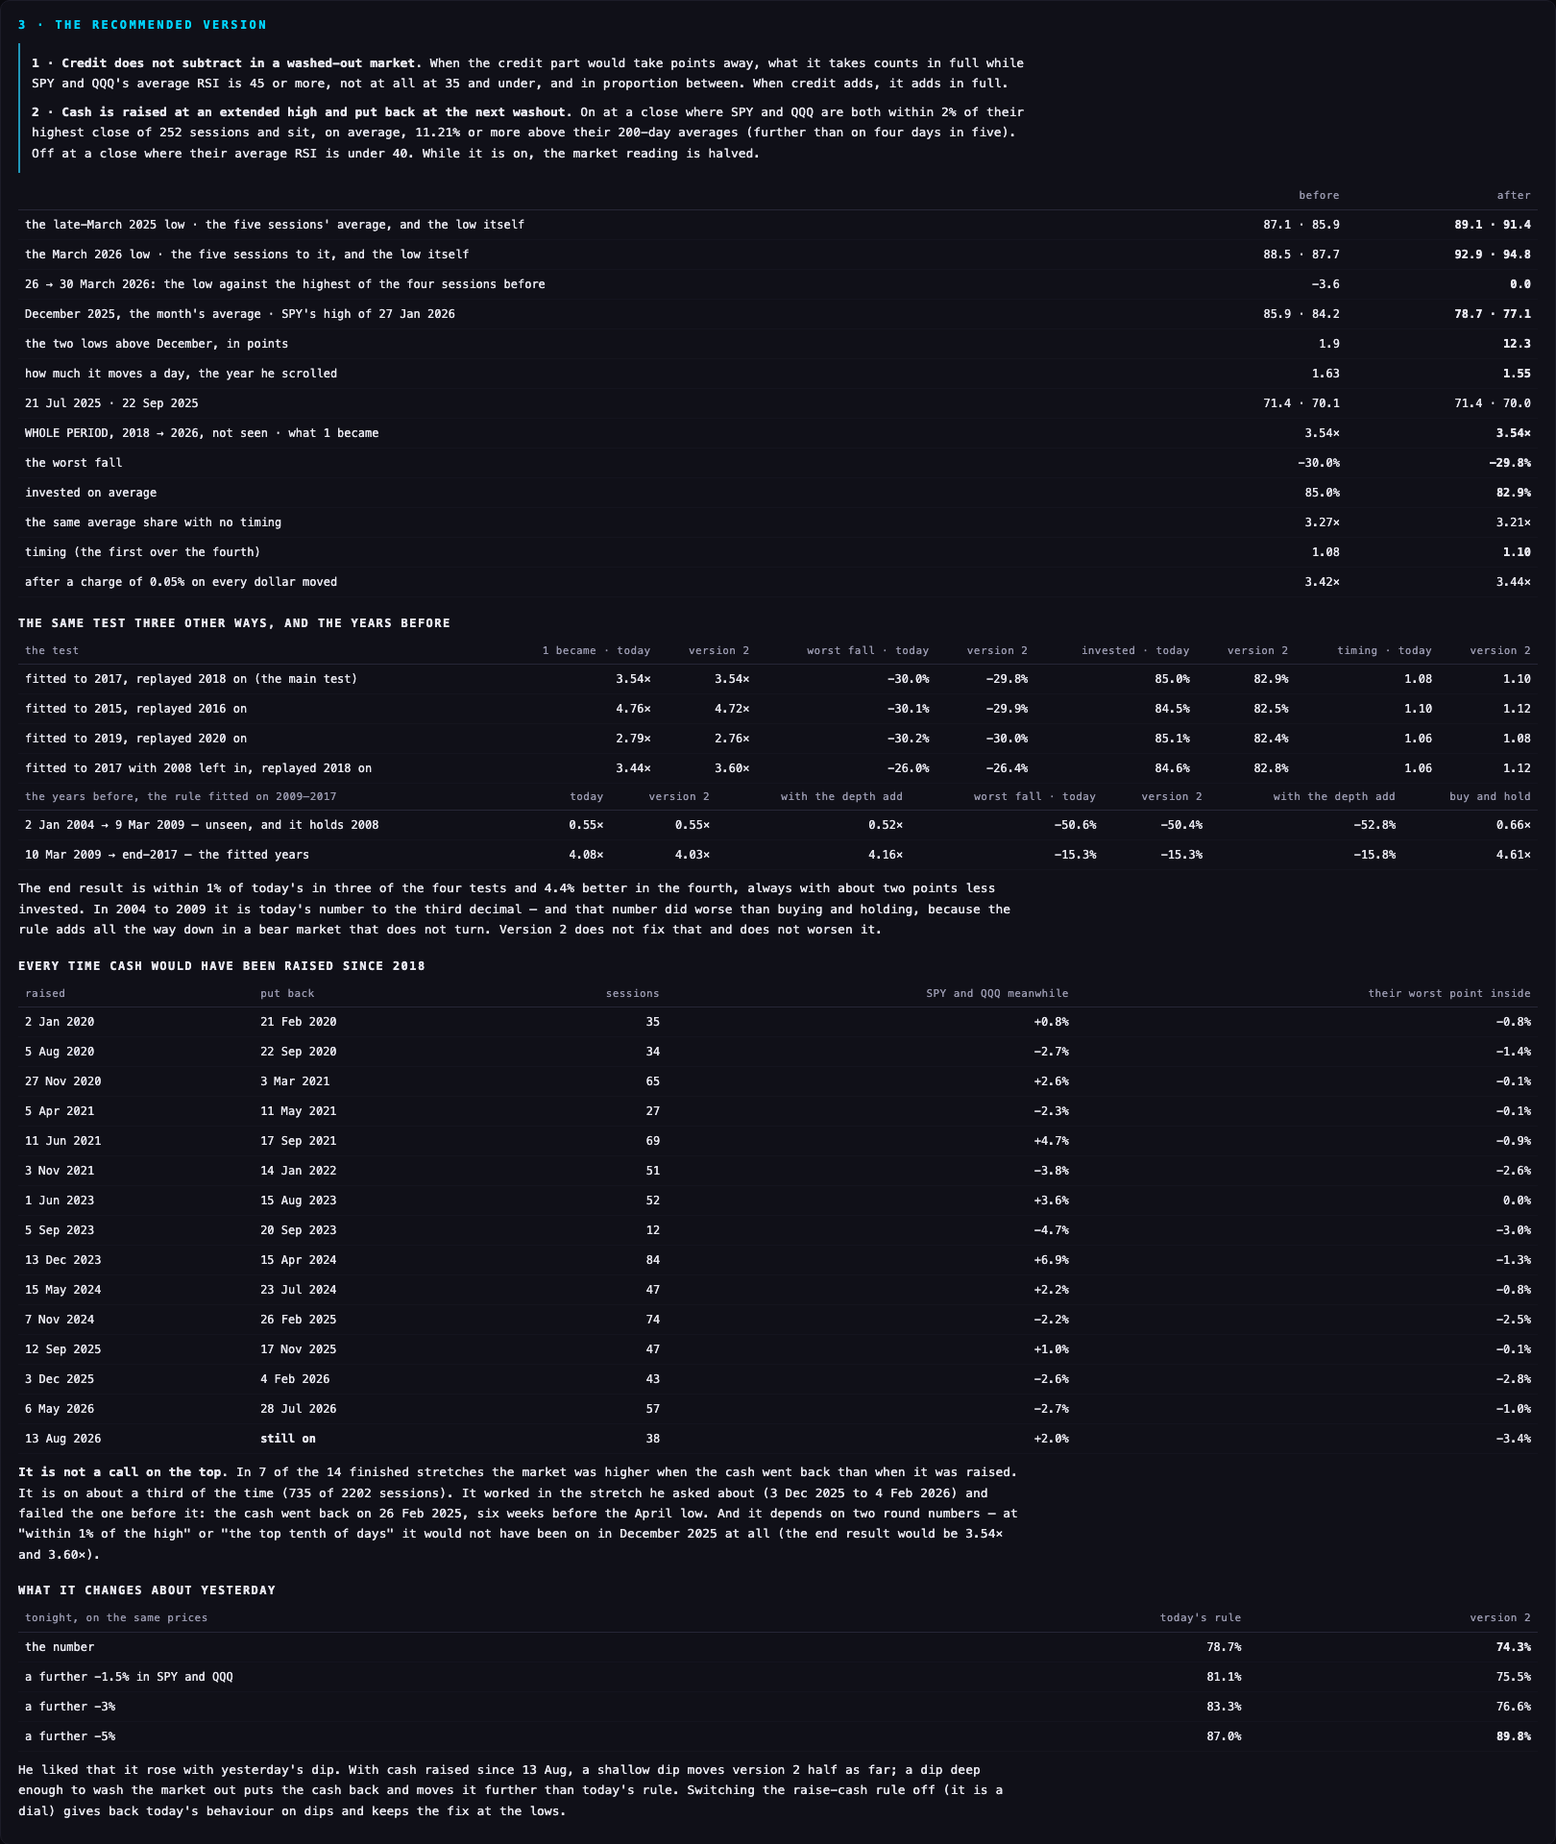
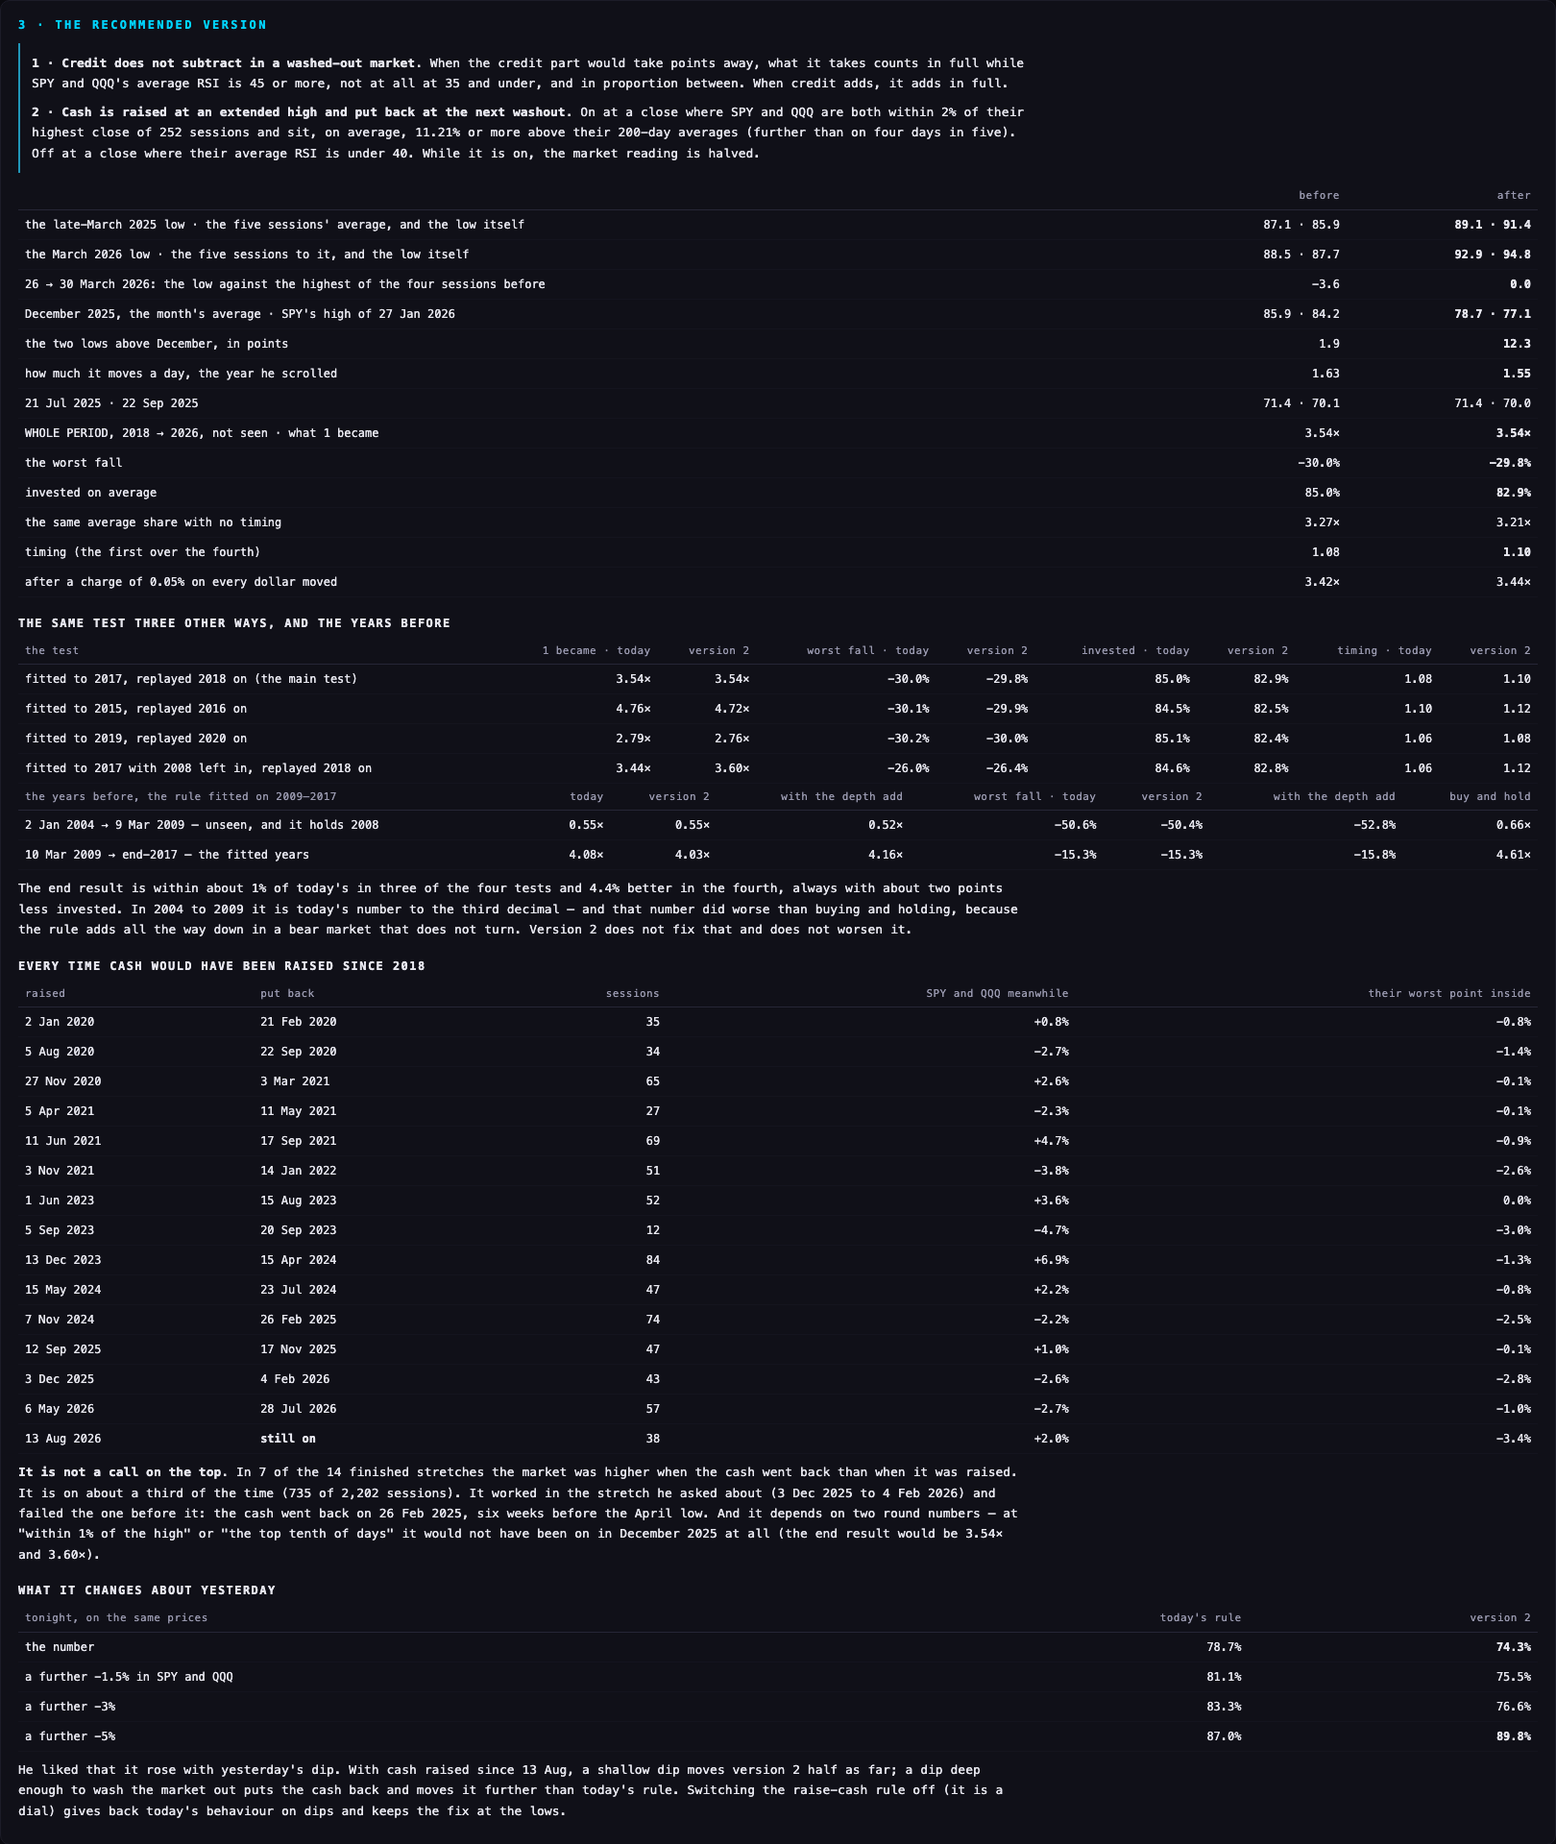
DS2 3 · the page's wording put right in four places: the depth add is the second decision and the smoother the third (the text said first and second); the RSI curve's steep stretch is worth 1.7 points of the account per point of RSI between 65 and 70, from the curve's own marks (the text said about 

Changed region(s): [[0.1235, 0.4688, 0.6481, 0.5]]

diff --git a/study/ds2/DS2.html b/study/ds2/DS2.html
@@ -71,7 +71,7 @@ details.sc-pagespecs{margin-top:22px;border:1px solid var(--line);border-radius:
   <p>The same thing a year earlier. On 28 Mar 2025 SPY fell 2.0% and the number went 89.4 → 85.9: the RSI part +3.7, the credit part −7.3. In the fall of 3 to 8 April it went to 100 and stayed there — once credit's own move is deeply negative (−4.3% on 8 April) its curve <i>adds</i>. That is the stretch he agreed with, and version 2 leaves it as it is.</p>
   <h3>21 JULY AND 22 SEPTEMBER 2025</h3>
   <div class="wrap"><table class=""><tr><th>from → to</th><th class="n">SPY</th><th class="n">the number</th><th class="n">change</th><th class="n">of it: the RSI part</th><th class="n">the credit part</th><th class="n">SPY and QQQ's RSI</th><th class="n">credit's own move</th><th class="n">version 2 would have gone</th></tr><tr><td>15 Jul → 21 Jul 2025</td><td class="n">+1.1%</td><td class="n">81.9 → 71.4</td><td class="n"><b>−10.5</b></td><td class="n">−9.0</td><td class="n">−1.5</td><td class="n">66.2 → 71.1</td><td class="n">+0.45% → +0.18%</td><td class="n">81.9 → 71.4</td></tr><tr><td>21 Jul → 31 Jul 2025</td><td class="n">+0.5%</td><td class="n">71.4 → 78.8</td><td class="n"><b>+7.4</b></td><td class="n">+10.1</td><td class="n">−2.7</td><td class="n">71.1 → 65.0</td><td class="n">+0.18% → −0.11%</td><td class="n">71.4 → 78.8</td></tr></table></div><div class="wrap"><table class=""><tr><th>from → to</th><th class="n">SPY</th><th class="n">the number</th><th class="n">change</th><th class="n">of it: the RSI part</th><th class="n">the credit part</th><th class="n">SPY and QQQ's RSI</th><th class="n">credit's own move</th><th class="n">version 2 would have gone</th></tr><tr><td>12 Sep → 22 Sep 2025</td><td class="n">+1.4%</td><td class="n">77.9 → 70.1</td><td class="n"><b>−7.8</b></td><td class="n">−10.7</td><td class="n">+3.0</td><td class="n">66.9 → 74.5</td><td class="n">+0.02% → +0.88%</td><td class="n">73.9 → 70.0</td></tr><tr><td>22 Sep → 24 Sep 2025</td><td class="n">−0.9%</td><td class="n">70.1 → 84.1</td><td class="n"><b>+14.0</b></td><td class="n">+13.9</td><td class="n">+0.2</td><td class="n">74.5 → 64.1</td><td class="n">+0.88% → +0.71%</td><td class="n">70.0 → 77.1</td></tr></table></div>
-  <p>Both drops are the RSI part alone. From 15 to 21 July SPY and QQQ's RSI went 66 → 71 and that took 9.0 points away; in September 67 → 74.5 took 10.7. The RSI's curve is steepest just there — between an RSI of 65 and 71 each point of RSI is worth about 2 points of the account — and the market went on rising both times. Neither version changes this: it is where the tool gets the cash it spends at the lows.</p>
+  <p>Both drops are the RSI part alone. From 15 to 21 July SPY and QQQ's RSI went 66 → 71 and that took 9.0 points away; in September 67 → 74.5 took 10.7. The RSI's curve is steepest just there — between an RSI of 65 and 70 each point of RSI is worth about 1.7 points of the account — and the market went on rising both times. Neither version changes this: it is where the tool gets the cash it spends at the lows.</p>
   <h3>THE END OF 2025 — "RIGHT AT THE PEAK, NO ACTION"</h3>
   <div class="wrap"><table class=""><tr><th>from → to</th><th class="n">SPY</th><th class="n">the number</th><th class="n">change</th><th class="n">of it: the RSI part</th><th class="n">the credit part</th><th class="n">SPY and QQQ's RSI</th><th class="n">credit's own move</th><th class="n">version 2 would have gone</th></tr><tr><td>1 Dec → 31 Dec 2025</td><td class="n">+0.2%</td><td class="n">85.9 → 87.6</td><td class="n"><b>+1.6</b></td><td class="n">+1.6</td><td class="n">0.0</td><td class="n">55.6 → 49.1</td><td class="n">+0.65% → +0.63%</td><td class="n">85.9 → 78.8</td></tr><tr><td>31 Dec → 27 Jan 2026</td><td class="n">+2.0%</td><td class="n">87.6 → 84.2</td><td class="n"><b>−3.4</b></td><td class="n">−1.8</td><td class="n">−1.6</td><td class="n">49.1 → 59.1</td><td class="n">+0.63% → +0.27%</td><td class="n">78.8 → 77.1</td></tr><tr><td>16 Jan → 20 Jan 2026</td><td class="n">−2.0%</td><td class="n">86.2 → 91.2</td><td class="n"><b>+5.0</b></td><td class="n">+5.6</td><td class="n">−0.6</td><td class="n">54.1 → 40.2</td><td class="n">+0.60% → +0.43%</td><td class="n">78.1 → 80.7</td></tr></table></div>
   <p>December averaged 85.9% and never left 84.3 to 88.5. <b>Neither part had anything to say.</b> The RSI averaged 55 and never passed 61; credit's own move averaged +0.6%. The top was made slowly, with the RSI in the fifties, and both parts only speak at extremes. Then on 20 January, when SPY fell 2.0% in a day, the number jumped 86.2 → 91.2 — the "it tells us to start to deploy after".</p>
@@ -89,9 +89,9 @@ details.sc-pagespecs{margin-top:22px;border:1px solid var(--line);border-radius:
   <div class="wrap"><table class=""><tr><th>credit that day</th><th class="n">days</th><th class="n">higher 20 sessions on</th><th class="n">median</th><th class="n">higher 60 sessions on</th><th class="n">median</th></tr><tr><td>credit subtracts hardest (15 points of reading or more)</td><td class="n">61</td><td class="n">46%</td><td class="n">−0.3%</td><td class="n">77%</td><td class="n">+8.0%</td></tr><tr><td>credit subtracts a little</td><td class="n">74</td><td class="n">64%</td><td class="n">+2.7%</td><td class="n">65%</td><td class="n">+3.9%</td></tr><tr><td>credit adds or is neutral</td><td class="n">93</td><td class="n">74%</td><td class="n">+5.1%</td><td class="n">91%</td><td class="n">+8.7%</td></tr></table></div>
   <p>Where credit subtracted hardest the market was lower a month later more often than not, in every one of the five years with enough days to count — and higher a quarter later 77% of the time. Credit was right about the next month and wrong for a buyer with a quarter in mind. Version 2 takes the quarter.</p>
   <h3>(b) DISTANCE BELOW THE 50-DAY AND THE 100-DAY AS AN ADD</h3>
-  <p>It takes both lows to about 100%. It did not earn a vote by the deployment study's own bar: with SPY and QQQ under their 100-day, the median gain 60 sessions on was 1.84 points bigger (in 7 of 7 years) but gains came 5.2 points less often — bigger when it works, and it works less often. By itself its better end result (3.56×) came from holding 3.0 points more on average, not from timing. Added on top of version 2 it passes (3.53×, worst fall −29.8%, 84.8% invested), and on 2004 to 2009, which holds 2008, it cost 4.4% and deepened the worst fall by 2.4 points. It is the first decision at the foot of this page; it is not in the tool.</p>
+  <p>It takes both lows to about 100%. It did not earn a vote by the deployment study's own bar: with SPY and QQQ under their 100-day, the median gain 60 sessions on was 1.84 points bigger (in 7 of 7 years) but gains came 5.2 points less often — bigger when it works, and it works less often. By itself its better end result (3.56×) came from holding 3.0 points more on average, not from timing. Added on top of version 2 it passes (3.53×, worst fall −29.8%, 84.8% invested), and on 2004 to 2009, which holds 2008, it cost 4.4% and deepened the worst fall by 2.4 points. It is the second decision at the foot of this page; it is not in the tool.</p>
   <h3>(c) A SMOOTHER NUMBER</h3>
-  <p>A 3-day average halves the movement (0.79 points a day against 1.63) and costs 2.8% of the end result if every day's move were traded for free, 1.1% after the 0.05% charge; on version 2 the same average costs 3.6% and 2.2%. Against the 1% bar set beforehand that is too dear, by a little. The reading's edge is fast: most of what a dip day says, it says that day. "Quick to add, slow to cut" keeps that (it costs 0.5% after the charge) but trims the movement by 26%, short of the third asked. Neither is in the recommended version; it is the second decision.</p>
+  <p>A 3-day average halves the movement (0.79 points a day against 1.63) and costs 2.8% of the end result if every day's move were traded for free, 1.1% after the 0.05% charge; on version 2 the same average costs 3.6% and 2.2%. Against the 1% bar set beforehand that is too dear, by a little. The reading's edge is fast: most of what a dip day says, it says that day. "Quick to add, slow to cut" keeps that (it costs 0.5% after the charge) but trims the movement by 26%, short of the third asked. Neither is in the recommended version; it is the third decision.</p>
   <h3>(d) A RAISE-CASH RULE AT EXTENDED HIGHS</h3>
   <p>No version pays as a trade. Selling at the signal and buying back 2% lower inside 20 sessions (the deployment study's own test) paid:</p>
   <div class="wrap"><table class=""><tr><th>the rule</th><th class="n">on, share of days since 2018</th><th class="n">paid, all years</th><th class="n">to 2017</th><th class="n">2018 on</th><th class="n">what followed 60 sessions on, median</th></tr><tr><td>any day</td><td class="n">—</td><td class="n">50%</td><td class="n">50%</td><td class="n">51%</td><td class="n">+4.6%</td></tr><tr><td>near the 252-session high</td><td class="n">36%</td><td class="n">32% of 53</td><td class="n">33%</td><td class="n">29%</td><td class="n">+2.5%</td></tr><tr><td>near the high and extended</td><td class="n">23%</td><td class="n">37% of 35</td><td class="n">47%</td><td class="n">28%</td><td class="n">+2.3%</td></tr><tr><td>near the high with RSI under 60</td><td class="n">8%</td><td class="n">50% of 84</td><td class="n">53%</td><td class="n">45%</td><td class="n">+2.8%</td></tr></table></div>
@@ -105,10 +105,10 @@ details.sc-pagespecs{margin-top:22px;border:1px solid var(--line);border-radius:
   <h3>THE SAME TEST THREE OTHER WAYS, AND THE YEARS BEFORE</h3>
   <div class="wrap"><table class=""><tr><th>the test</th><th class="n">1 became · today</th><th class="n">version 2</th><th class="n">worst fall · today</th><th class="n">version 2</th><th class="n">invested · today</th><th class="n">version 2</th><th class="n">timing · today</th><th class="n">version 2</th></tr><tr><td>fitted to 2017, replayed 2018 on (the main test)</td><td class="n">3.54×</td><td class="n">3.54×</td><td class="n">−30.0%</td><td class="n">−29.8%</td><td class="n">85.0%</td><td class="n">82.9%</td><td class="n">1.08</td><td class="n">1.10</td></tr><tr><td>fitted to 2015, replayed 2016 on</td><td class="n">4.76×</td><td class="n">4.72×</td><td class="n">−30.1%</td><td class="n">−29.9%</td><td class="n">84.5%</td><td class="n">82.5%</td><td class="n">1.10</td><td class="n">1.12</td></tr><tr><td>fitted to 2019, replayed 2020 on</td><td class="n">2.79×</td><td class="n">2.76×</td><td class="n">−30.2%</td><td class="n">−30.0%</td><td class="n">85.1%</td><td class="n">82.4%</td><td class="n">1.06</td><td class="n">1.08</td></tr><tr><td>fitted to 2017 with 2008 left in, replayed 2018 on</td><td class="n">3.44×</td><td class="n">3.60×</td><td class="n">−26.0%</td><td class="n">−26.4%</td><td class="n">84.6%</td><td class="n">82.8%</td><td class="n">1.06</td><td class="n">1.12</td></tr></table></div>
   <div class="wrap"><table class=""><tr><th>the years before, the rule fitted on 2009–2017</th><th class="n">today</th><th class="n">version 2</th><th class="n">with the depth add</th><th class="n">worst fall · today</th><th class="n">version 2</th><th class="n">with the depth add</th><th class="n">buy and hold</th></tr><tr><td>2 Jan 2004 → 9 Mar 2009 — unseen, and it holds 2008</td><td class="n">0.55×</td><td class="n">0.55×</td><td class="n">0.52×</td><td class="n">−50.6%</td><td class="n">−50.4%</td><td class="n">−52.8%</td><td class="n">0.66×</td></tr><tr><td>10 Mar 2009 → end-2017 — the fitted years</td><td class="n">4.08×</td><td class="n">4.03×</td><td class="n">4.16×</td><td class="n">−15.3%</td><td class="n">−15.3%</td><td class="n">−15.8%</td><td class="n">4.61×</td></tr></table></div>
-  <p>The end result is within 1% of today's in three of the four tests and 4.4% better in the fourth, always with about two points less invested. In 2004 to 2009 it is today's number to the third decimal — and that number did worse than buying and holding, because the rule adds all the way down in a bear market that does not turn. Version 2 does not fix that and does not worsen it.</p>
+  <p>The end result is within about 1% of today's in three of the four tests and 4.4% better in the fourth, always with about two points less invested. In 2004 to 2009 it is today's number to the third decimal — and that number did worse than buying and holding, because the rule adds all the way down in a bear market that does not turn. Version 2 does not fix that and does not worsen it.</p>
   <h3>EVERY TIME CASH WOULD HAVE BEEN RAISED SINCE 2018</h3>
   <div class="wrap"><table class=""><tr><th>raised</th><th>put back</th><th class="n">sessions</th><th class="n">SPY and QQQ meanwhile</th><th class="n">their worst point inside</th></tr><tr><td>2 Jan 2020</td><td>21 Feb 2020</td><td class="n">35</td><td class="n">+0.8%</td><td class="n">−0.8%</td></tr><tr><td>5 Aug 2020</td><td>22 Sep 2020</td><td class="n">34</td><td class="n">−2.7%</td><td class="n">−1.4%</td></tr><tr><td>27 Nov 2020</td><td>3 Mar 2021</td><td class="n">65</td><td class="n">+2.6%</td><td class="n">−0.1%</td></tr><tr><td>5 Apr 2021</td><td>11 May 2021</td><td class="n">27</td><td class="n">−2.3%</td><td class="n">−0.1%</td></tr><tr><td>11 Jun 2021</td><td>17 Sep 2021</td><td class="n">69</td><td class="n">+4.7%</td><td class="n">−0.9%</td></tr><tr><td>3 Nov 2021</td><td>14 Jan 2022</td><td class="n">51</td><td class="n">−3.8%</td><td class="n">−2.6%</td></tr><tr><td>1 Jun 2023</td><td>15 Aug 2023</td><td class="n">52</td><td class="n">+3.6%</td><td class="n">0.0%</td></tr><tr><td>5 Sep 2023</td><td>20 Sep 2023</td><td class="n">12</td><td class="n">−4.7%</td><td class="n">−3.0%</td></tr><tr><td>13 Dec 2023</td><td>15 Apr 2024</td><td class="n">84</td><td class="n">+6.9%</td><td class="n">−1.3%</td></tr><tr><td>15 May 2024</td><td>23 Jul 2024</td><td class="n">47</td><td class="n">+2.2%</td><td class="n">−0.8%</td></tr><tr><td>7 Nov 2024</td><td>26 Feb 2025</td><td class="n">74</td><td class="n">−2.2%</td><td class="n">−2.5%</td></tr><tr><td>12 Sep 2025</td><td>17 Nov 2025</td><td class="n">47</td><td class="n">+1.0%</td><td class="n">−0.1%</td></tr><tr><td>3 Dec 2025</td><td>4 Feb 2026</td><td class="n">43</td><td class="n">−2.6%</td><td class="n">−2.8%</td></tr><tr><td>6 May 2026</td><td>28 Jul 2026</td><td class="n">57</td><td class="n">−2.7%</td><td class="n">−1.0%</td></tr><tr><td>13 Aug 2026</td><td><b>still on</b></td><td class="n">38</td><td class="n">+2.0%</td><td class="n">−3.4%</td></tr></table></div>
-  <p><b>It is not a call on the top.</b> In 7 of the 14 finished stretches the market was higher when the cash went back than when it was raised. It is on about a third of the time (735 of 2202 sessions). It worked in the stretch he asked about (3 Dec 2025 to 4 Feb 2026) and failed the one before it: the cash went back on 26 Feb 2025, six weeks before the April low. And it depends on two round numbers — at "within 1% of the high" or "the top tenth of days" it would not have been on in December 2025 at all (the end result would be 3.54× and 3.60×).</p>
+  <p><b>It is not a call on the top.</b> In 7 of the 14 finished stretches the market was higher when the cash went back than when it was raised. It is on about a third of the time (735 of 2,202 sessions). It worked in the stretch he asked about (3 Dec 2025 to 4 Feb 2026) and failed the one before it: the cash went back on 26 Feb 2025, six weeks before the April low. And it depends on two round numbers — at "within 1% of the high" or "the top tenth of days" it would not have been on in December 2025 at all (the end result would be 3.54× and 3.60×).</p>
   <h3>WHAT IT CHANGES ABOUT YESTERDAY</h3>
   <div class="wrap"><table class=""><tr><th>tonight, on the same prices</th><th class="n">today's rule</th><th class="n">version 2</th></tr><tr><td>the number</td><td class="n">78.7%</td><td class="n"><b>74.3%</b></td></tr><tr><td>a further −1.5% in SPY and QQQ</td><td class="n">81.1%</td><td class="n">75.5%</td></tr><tr><td>a further −3%</td><td class="n">83.3%</td><td class="n">76.6%</td></tr><tr><td>a further −5%</td><td class="n">87.0%</td><td class="n"><b>89.8%</b></td></tr></table></div>
   <p>He liked that it rose with yesterday's dip. With cash raised since 13 Aug, a shallow dip moves version 2 half as far; a dip deep enough to wash the market out puts the cash back and moves it further than today's rule. Switching the raise-cash rule off (it is a dial) gives back today's behaviour on dips and keeps the fix at the lows.</p>
